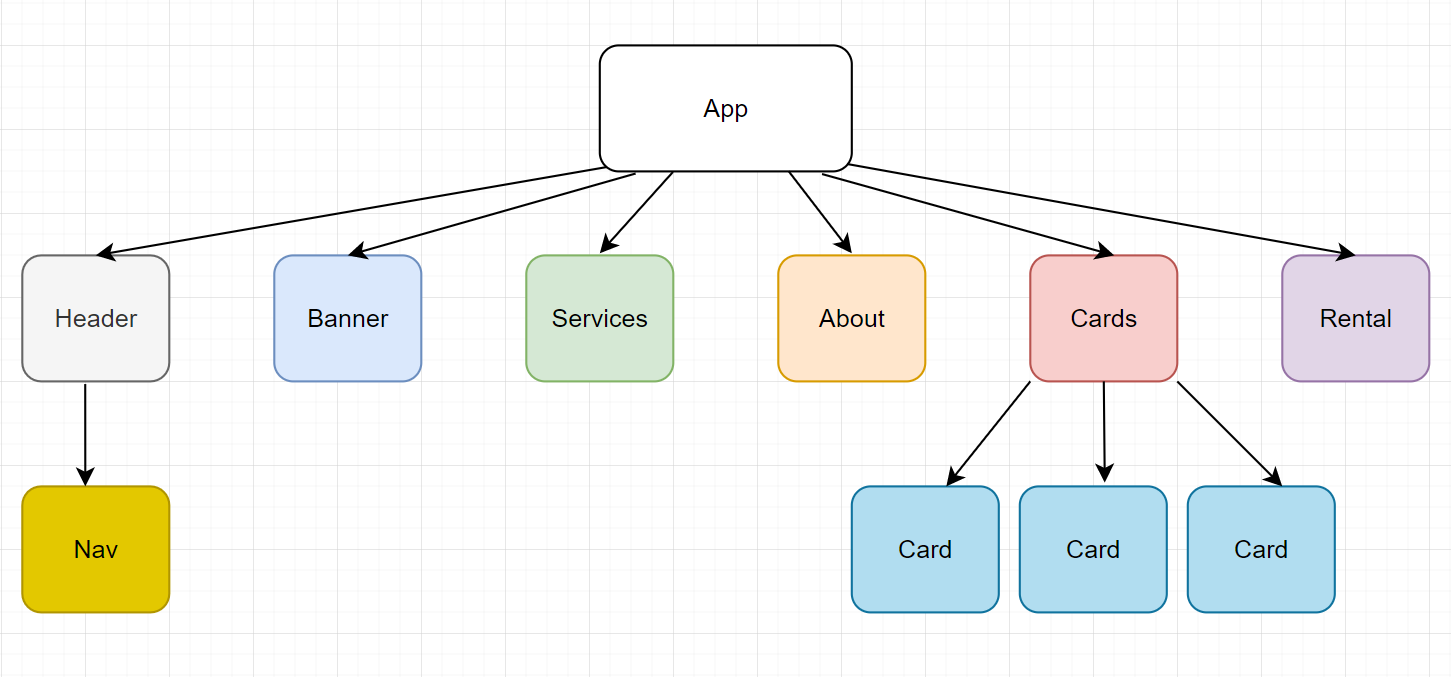
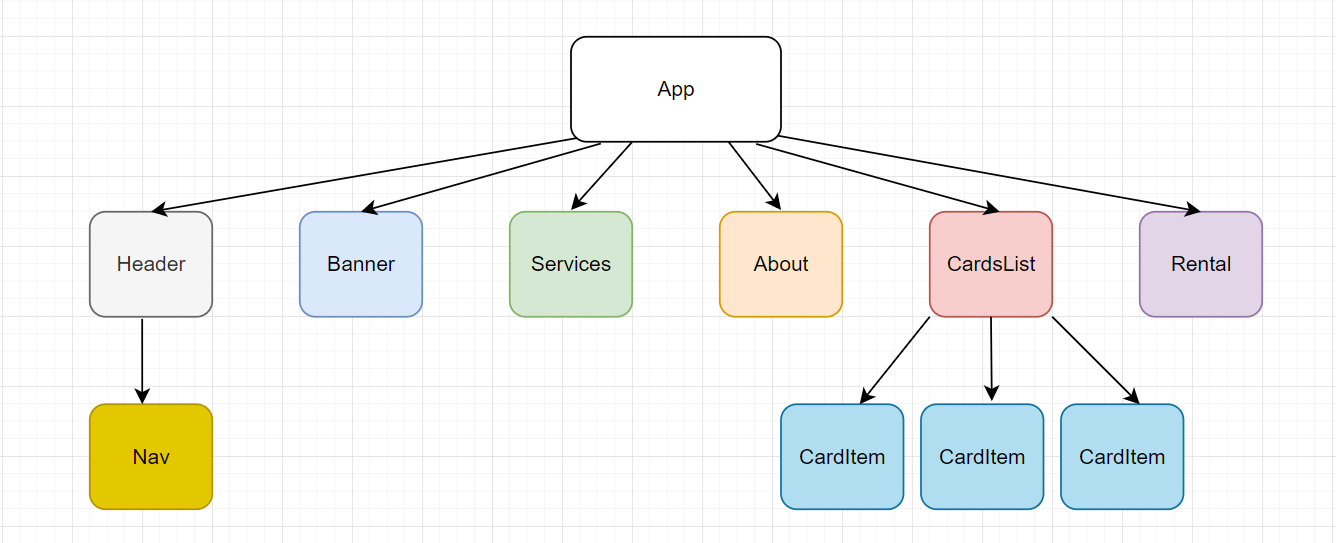
refactor card component

diff --git a/FE_Homework/HW040323/hw_app/src/App.js b/FE_Homework/HW040323/hw_app/src/App.js
@@ -3,7 +3,7 @@ import Header from "./components/Header/Header";
 import Banner from "./components/Banner/Banner";
 import Services from "./components/Services/Services";
 import About from "./components/About/About";
-import Cards from "./components/Cards/Cards";
+import CardsList from "./components/CardsList/CardsList";
 import Rental from "./components/Rental/Rental";
 
 function App() {
@@ -13,7 +13,7 @@ function App() {
             <Banner/>
             <Services />
             <About />
-            <Cards />
+            <CardsList />
             <Rental />
         </div>
     );

diff --git a/FE_Homework/HW040323/hw_app/src/components/Banner/Banner.js b/FE_Homework/HW040323/hw_app/src/components/Banner/Banner.js
@@ -8,7 +8,7 @@ function Banner() {
                     люди, которые смогли превратить свое увлечение и хобби в профессию. Мы сами любим кататься и хотим
                     чтобы Ваш двухколесный друг приносил Вам только радость и удовольствие от езды.</p>
             </div>
-            <div className={styles.banner_img}>
+            <div>
                 <img src="/images/dino.png" alt="dino-img"/>
             </div>
         </div>

diff --git a/FE_Homework/HW040323/hw_app/src/components/CardsList/CardsList.js b/FE_Homework/HW040323/hw_app/src/components/CardsList/CardsList.js
@@ -1,0 +1,14 @@
+import CardItem from "../CardItem/CardItem";
+import styles from "./CardsList.module.css"
+
+function CardsList() {
+    return (
+        <div className={styles.cards_inner}>
+            <CardItem title={"Годовое ТО"} color={"#22356F"}/>
+            <CardItem title={"Выравнивание колес"} color={"#0052C1"}/>
+            <CardItem title={"Настройка переключателей"} color={"#76B58B"}/>
+        </div>
+    )
+}
+
+export default CardsList

diff --git a/FE_Homework/HW040323/hw_app/src/components/CardItem/CardItem.js b/FE_Homework/HW040323/hw_app/src/components/CardItem/CardItem.js
@@ -1,5 +1,5 @@
-import styles from "./Card.module.css"
-function Card(props){
+import styles from "./CardItem.module.css"
+function CardItem(props){
     return(
         <div className={styles.card_inner} style={{backgroundColor : `${props.color}`}}>
             <h2 className={styles.card_title}>{props.title}</h2>
@@ -8,4 +8,4 @@ function Card(props){
     )
 }
 
-export default Card
+export default CardItem

diff --git a/FE_Homework/HW040323/hw_app/src/App.module.css b/FE_Homework/HW040323/hw_app/src/App.module.css
@@ -1,7 +1,7 @@
 @import url('https://fonts.googleapis.com/css2?family=ABeeZee:ital@0;1&display=swap');
 
 .app{
-    width: 1440px;
+    max-width: 1440px;
     margin: 0 auto;
     font-family: 'ABeeZee', sans-serif;
 }
